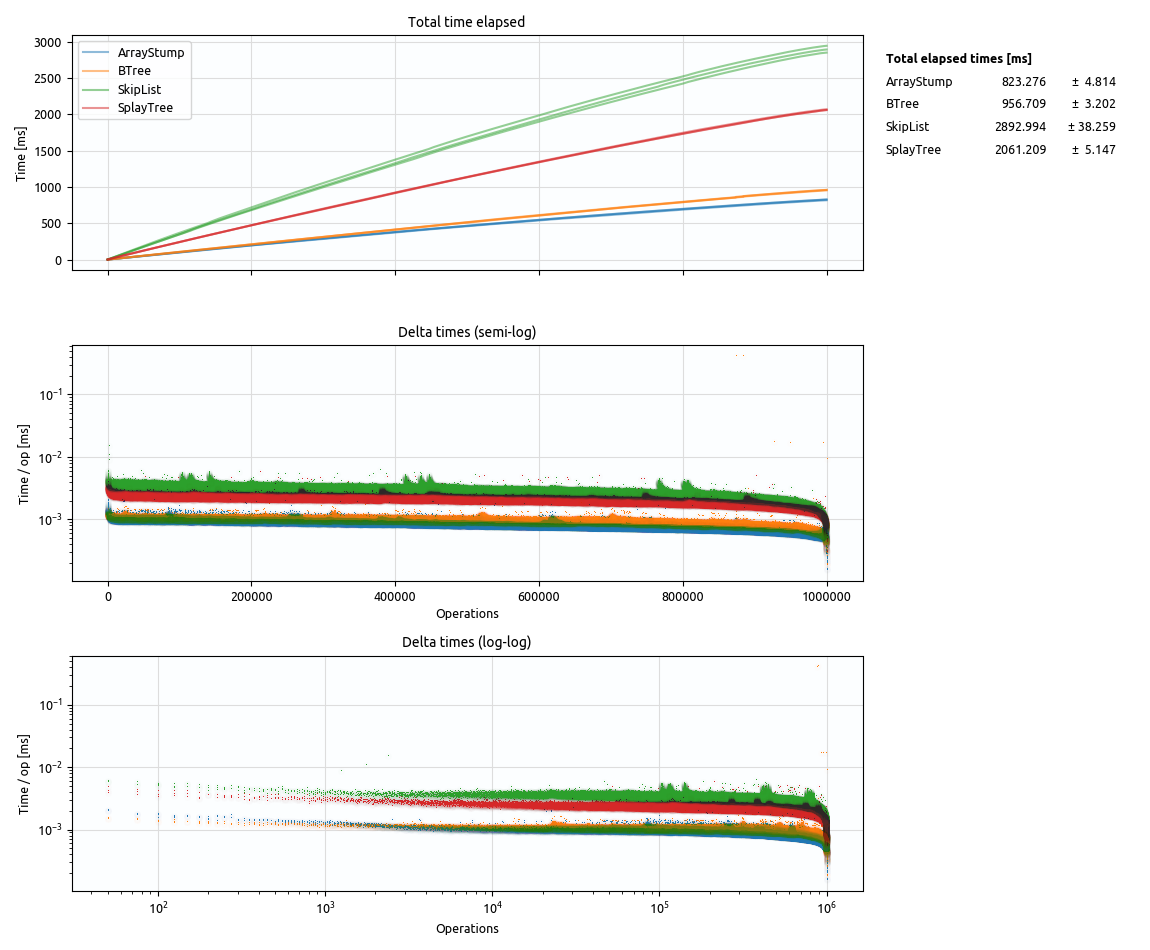
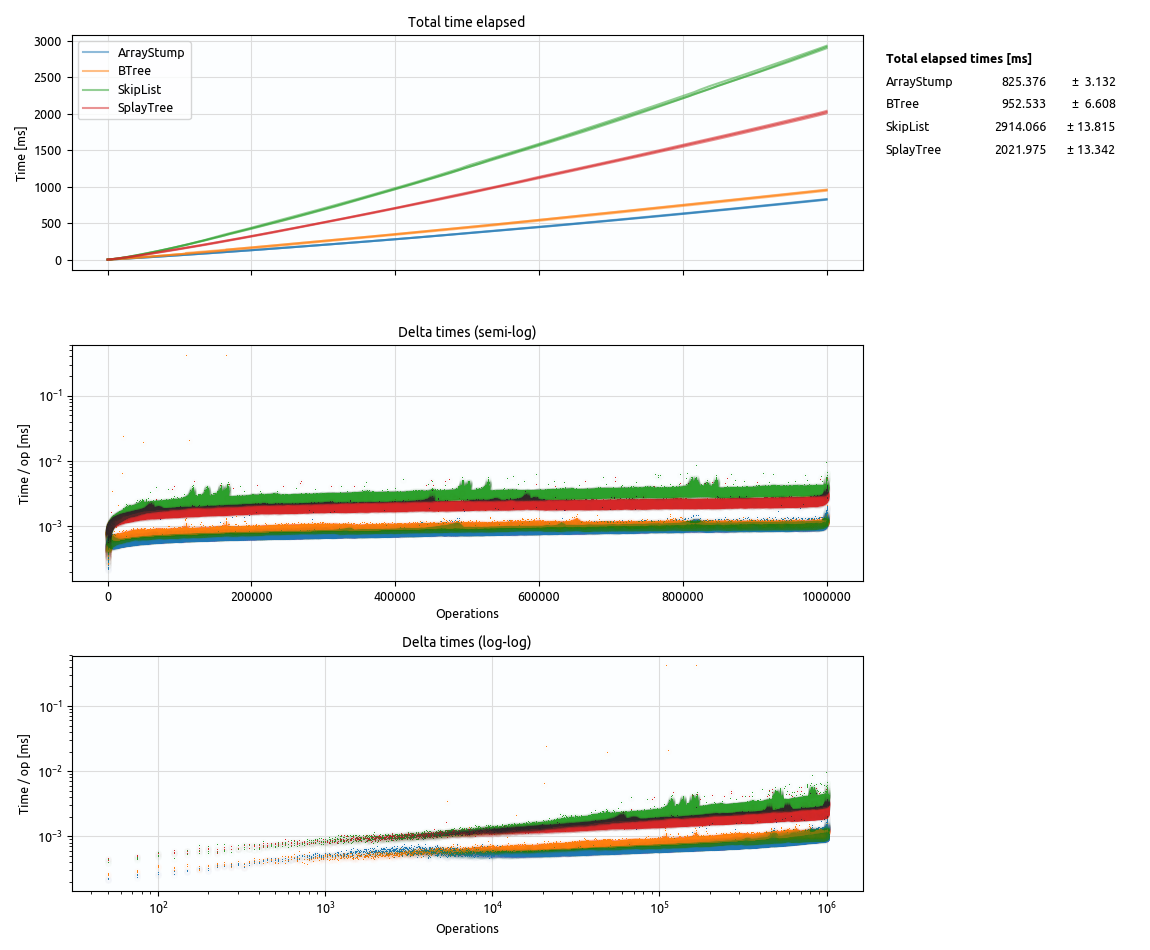
improved plot for remove

diff --git a/benchmarks/src/benchmarks.rs b/benchmarks/src/benchmarks.rs
@@ -119,6 +119,19 @@ where
                 }
             }
             assert_eq!(get_len(&set), 0);
+
+            // Note: we reverse the elapsed times so that the reported N corresponds to the collection size.
+            let mut elapsed_times_reversed = Vec::with_capacity(elapsed_times.len());
+            let mut t = 0.0;
+            let mut n = 0;
+            for i in (0 .. elapsed_times.len()).rev() {
+                let delta_t = if i > 0 { elapsed_times[i].1 - elapsed_times[i - 1].1 } else { elapsed_times[0].1 };
+                let delta_n = if i > 0 { elapsed_times[i].0 - elapsed_times[i - 1].0 } else { elapsed_times[0].0 };
+                t += delta_t;
+                n += delta_n;
+                elapsed_times_reversed.push((n, t));
+            }
+            elapsed_times = elapsed_times_reversed;
         }
         BenchmarkMode::Find{ recent } => {
             let mut total_elapsed = 0.0;

diff --git a/README.md b/README.md
@@ -13,7 +13,10 @@ A data structure mixing dynamic array and sorted set semantics.
 
 ![Algorithm Visualization](docs/algorithm_visualization.gif)
 
-The data structure is similar to [hashed array trees](https://en.wikipedia.org/wiki/Hashed_array_tree), but optimized for insert/remove in the middle instead of inserting/removing at the end.
+Algorithmic notes:
+- The data structure is similar to [hashed array trees](https://en.wikipedia.org/wiki/Hashed_array_tree), but optimized for insert/remove in the middle instead of inserting/removing at the end.
+- The `max_leaf_capacity` gets doubled if the size of the top level array exceeds an upper threshold `alpha_1 * max_leaf_capacity`.
+- The `max_leaf_capacity` gets halved if the average leaf fill ratio exceeds a lower threshold `alpha_2`.
 
 
 ## Use cases
@@ -113,6 +116,7 @@ Elapsed time is evaluated after each batch.
 - This benchmark first fills N = 1 000 000 randomly drawn float elements into the containers without time measurement.
 It then removes random (predetermined) elements in batches of k = 25.
 Elapsed time is evaluated after each batch.
+- The elapsed times have been reverted for the purpose of the plot so that the x-axis corresponds to the collection size, allowing for double-log plotting.
 </details>
 
 ![image](results/remove_avg_comparison.png/)
